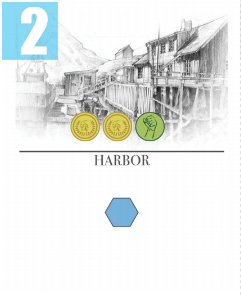
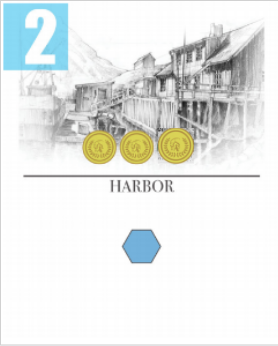
Ui (#70)

diff --git a/client/index.js b/client/index.js
@@ -36,6 +36,7 @@ var MY_MOVE = {}
 var STARTING_PLAYER = false
 var MY_RESOURCES = {'bm':0, 'l':0, 'c':0}
 var ENEMY_RESOURCES = {'bm':0, 'l':0, 'c':0}
+var VPS = {'me':0, 'enemy':0, 'me_special':false, 'enemy_special':false}
 
 // handle hex click
 // force marker placement selection first
@@ -179,12 +180,13 @@ function displayBoard() {
 	    var cell = document.createElement("div")
       cell.id = row + "_" + col
       if (BOARD[row][col].most_recent) {
-        cell.style.fontSize = '30'
+        cell.style.fontSize = '33'
       }
 
       if (BOARD[row][col].building === undefined) {
         if ((STARTING_PLAYER && BOARD[row][col].marker == 'player_one') || (!STARTING_PLAYER && BOARD[row][col].marker == 'player_two')) {
           cell.innerText = 'Mine'
+
         }
         if ((STARTING_PLAYER && BOARD[row][col].marker == 'player_two') || (!STARTING_PLAYER && BOARD[row][col].marker == 'player_one')) {
           cell.innerText = 'Enemy'
@@ -249,7 +251,7 @@ function displayShop() {
       }
 	    datum = document.createElement("th")
 	    datum.innerText = SHOP[i][attribute]
-      console.log(SHOP[i][attribute])
+      
       if (index==1) {
         datum.style.backgroundColor=getColor(SHOP[i][attribute], STARTING_PLAYER)
         if (!STARTING_PLAYER) {
@@ -317,7 +319,7 @@ function onClickShopRow(row) {
           buildingName == "Tenement" ||
           buildingName == "Refinery" ||
           buildingName == "Bazaar" ||
-          buildingName == "Housing Unit" ||
+          buildingName == "Housing Shack" ||
           buildingName == "Loan Office") {
         document.getElementById('money_form_input').style.display = "block"
         if (buildingName == "Casino" || buildingName == "Loan Office") {
@@ -353,6 +355,19 @@ function displayResources() {
   document.getElementById('resource_bm_e').innerText = "Building Materials: " + ENEMY_RESOURCES.bm
   document.getElementById('resource_l_e').innerText = "Labor: " + ENEMY_RESOURCES.l
   document.getElementById('resource_c_e').innerText = "Coin: " + ENEMY_RESOURCES.c
+}
+
+function displayVps() {
+  var me_string = "Victory Points: " + VPS.me
+  if (VPS.me_special) {
+    me_string += " + *"
+  }
+  var enemy_string = "Victory Points: " + VPS.enemy
+  if (VPS.enemy_special) {
+    enemy_string += " + *"
+  }
+  document.getElementById('vp_me').innerText = me_string
+  document.getElementById('vp_e').innerText = enemy_string
 }
 
 function clearBuildingAndExtraText(row, col) {
@@ -407,7 +422,30 @@ var SVG_HEIGHT_BUFFER = 55 // trial and error bullshit
 var SVG_LINE_WIDTH = 45
 
 // Iterate through BOARD object and draw SVG lines for buildings
-function displayBuildings() {
+function displaySvgElements() {
+  for (var row = 0; row < BOARD.length; row++) {
+    for (var col = 0; col < BOARD[row].length; col++) {
+      var xValue = 46 + 105*col
+      if (row%2 == 1) {
+        xValue += 55
+      }
+      if (document.getElementById(row + "_" + col).innerText == "Mine") {
+        if (STARTING_PLAYER) {
+          drawCircle(xValue, 55 + 91*row, '#ffffff', 0.7)
+        } else {
+          drawCircle(xValue, 55 + 91*row, '#000000', 0.4)
+        }
+      }
+      if (document.getElementById(row + "_" + col).innerText == "Enemy") { 
+        if (STARTING_PLAYER) {
+          drawCircle(xValue, 55 + 91*row, '#000000', 0.4)
+        } else {
+          drawCircle(xValue, 55 + 91*row, '#ffffff', 0.7)
+        }
+      }
+    }
+  }
+
   var lineWidth = 45
   for (var i = 0; i < BUILDINGS.length; i++) {
     var locationArray = BUILDINGS[i]['location_array']
@@ -475,6 +513,20 @@ function drawLineOnTile(tile, lineColor, is_player_one) {
   drawLine(x1, y1, x2, y2, lineColor, SVG_LINE_WIDTH*0.8)
 }
 
+function drawCircle(x, y, color, opacity) {
+
+  var newLine = document.createElementNS('http://www.w3.org/2000/svg','circle');
+  newLine.setAttribute('id','circle');
+  newLine.setAttribute('cx', x);
+  newLine.setAttribute('cy', y);
+  newLine.setAttribute('r', 25);
+  newLine.setAttribute("stroke", 'none');
+  newLine.setAttribute("fill", color);
+  newLine.setAttribute("fill-opacity", opacity);
+  
+  $("svg").append(newLine);
+}
+
 // draw SVG line
 function drawLine(x1, y1, x2, y2, lineColor, line_width) {
   var newLine = document.createElementNS('http://www.w3.org/2000/svg','line');
@@ -514,15 +566,31 @@ function ingestServerResponse(server_response) {
   if (STARTING_PLAYER) {
     MY_RESOURCES = server_response.game_state.p1_resources
     ENEMY_RESOURCES = server_response.game_state.p2_resources
+    
+    VPS.me = server_response.game_state.vps.p1
+    VPS.me_special = server_response.game_state.vps.p1_special
+    VPS.enemy = server_response.game_state.vps.p2
+    VPS.enemy_special = server_response.game_state.vps.p2_special
   } else {
     MY_RESOURCES = server_response.game_state.p2_resources
     ENEMY_RESOURCES = server_response.game_state.p1_resources
+    
+    VPS.me = server_response.game_state.vps.p2
+    VPS.me_special = server_response.game_state.vps.p2_special
+    VPS.enemy = server_response.game_state.vps.p1
+    VPS.enemy_special = server_response.game_state.vps.p1_special
   }
 
+  var svg = document.getElementById('buildings')
+  while (svg.lastChild) {
+    svg.removeChild(svg.lastChild);
+  }
   displayBoard()
-  displayBuildings()
+  displaySvgElements()
   displayShop()
   displayResources()
+  displayVps()
+
 }
 
 window.onload = () => {

diff --git a/server/startingStateGeneration.js b/server/startingStateGeneration.js
@@ -26,7 +26,7 @@
       //aquatic
       [
       {'name': 'Bridge',     'type': 'Aquatic',                      'bm': 3, 'c': 1, 'l': 0, '?': 0, 'limit': 5, 'vp': 3},
-      {'name': 'Harbor',     'type': 'Aquatic',                      'bm': 0, 'c': 2, 'l': 1, '?': 0, 'limit': 5, 'vp': 2},
+      {'name': 'Harbor',     'type': 'Aquatic',                      'bm': 0, 'c': 3, 'l': 0, '?': 0, 'limit': 5, 'vp': 2},
       {'name': 'Canal',      'type': 'Aquatic',                      'bm': 2, 'c': 2, 'l': 1, '?': 0, 'limit': 5, 'vp': 2},
       {'name': 'Ferry',      'type': 'Aquatic',                      'bm': 1, 'c': 3, 'l': 1, '?': 0, 'limit': 5, 'vp': 3},
       {'name': 'Lighthouse', 'type': 'Aquatic',                      'bm': 1, 'c': 3, 'l': 1, '?': 0, 'limit': 5, 'vp': 2},
@@ -38,8 +38,8 @@
       {'name': 'Bazaar',     'type': 'Commercial',                   'bm': 0, 'c': 0, 'l': 0, '?': 6, 'limit': 5, 'vp': 3},
       {'name': 'Refinery',   'type': 'Commercial',                   'bm': 0, 'c': 0, 'l': 0, '?': 3, 'limit': 5, 'vp': 1}, 
       {'name': 'Casino',     'type': 'Commercial',                   'bm': 0, 'c': 0, 'l': 0, '?': 4, 'limit': 5, 'vp': 0},
+      {'name': 'Loan Office','type': 'Commercial',                   'bm': 0, 'c': 0, 'l': 0, '?': 2, 'limit': 5, 'vp': -1},
       {'name': 'Watchtower', 'type': 'Commercial',                   'bm': 0, 'c': 2, 'l': 3, '?': 0, 'limit': 5, 'vp': 3},
-      {'name': 'Loan Office','type': 'Commercial',                   'bm': 0, 'c': 0, 'l': 0, '?': 2, 'limit': 5, 'vp': -1}
       ],
 
       //civic
@@ -54,23 +54,24 @@
 
       //default
       [
-      {'name': 'Housing Unit',             'type': 'Default',       'bm': 0, 'c': 0, 'l': 0, '?': 3, 'limit': 10, 'vp': 1},
+      {'name': 'Housing Shack',             'type': 'Default',       'bm': 0, 'c': 0, 'l': 0, '?': 3, 'limit': 10, 'vp': 1},
       ],
 
       //new cultural
       [
-      // {'name': 'Place Charles de Gaulle',   'type': 'NewCultural',   'bm': 3, 'c': 1, 'l': 2, '?': 0, 'limit': 1, 'vp': 8},
-      // {'name': 'Parc de Buttes Chaumont',   'type': 'NewCultural',   'bm': 1, 'c': 2, 'l': 3, '?': 0, 'limit': 1, 'vp': 7},
-      // {'name': 'Rue de Rivoli',             'type': 'NewCultural',   'bm': 3, 'c': 2, 'l': 1, '?': 0, 'limit': 1, 'vp': 6},
-      {'name': 'The Embassy',               'type': 'NewCultural',   'bm': 2, 'c': 3, 'l': 2, '?': 0, 'limit': 1, 'vp': 0},
+      {'name': 'Place Charles de Gaulle',   'type': 'NewCultural',   'bm': 3, 'c': 1, 'l': 2, '?': 0, 'limit': 1, 'vp': 8},
+      {'name': 'Parc de Buttes Chaumont',   'type': 'NewCultural',   'bm': 1, 'c': 2, 'l': 3, '?': 0, 'limit': 1, 'vp': 7},
+      {'name': 'Rue de Rivoli',             'type': 'NewCultural',   'bm': 3, 'c': 2, 'l': 1, '?': 0, 'limit': 1, 'vp': 6},
+      {'name': 'The Embassy',               'type': 'NewCultural',   'bm': 1, 'c': 2, 'l': 2, '?': 0, 'limit': 1, 'vp': 0},
       {'name': 'Tour Eiffel',               'type': 'NewCultural',   'bm': 1, 'c': 1, 'l': 1, '?': 0, 'limit': 1, 'vp': 6},
-      {'name': 'Bois de Vincennes',         'type': 'NewCultural',   'bm': 2, 'c': 1, 'l': 2, '?': 0, 'limit': 1, 'vp': 0},
-      {'name': 'Waterworks',                'type': 'NewCultural',   'bm': 2, 'c': 3, 'l': 2, '?': 0, 'limit': 1, 'vp': 0},
+      {'name': 'Bois de Vincennes',         'type': 'NewCultural',   'bm': 2, 'c': 1, 'l': 3, '?': 0, 'limit': 1, 'vp': 0},
       {'name': 'Musee du Louvre',           'type': 'NewCultural',   'bm': 2, 'c': 3, 'l': 1, '?': 0, 'limit': 1, 'vp': 0},
       {'name': 'Guild Hall',                'type': 'NewCultural',   'bm': 2, 'c': 1, 'l': 2, '?': 0, 'limit': 1, 'vp': 0},
       {'name': 'Musee du Orsay',            'type': 'NewCultural',   'bm': 1, 'c': 2, 'l': 2, '?': 0, 'limit': 1, 'vp': 2},
-      // {'name': 'Le Havre',                  'type': 'NewCultural',   'bm': 0, 'c': 3, 'l': 3, '?': 0, 'limit': 1, 'vp': 0},
       {'name': 'The Grand Canal',           'type': 'NewCultural',   'bm': 2, 'c': 3, 'l': 2, '?': 0, 'limit': 1, 'vp': 0},
+      
+      {'name': 'Le Havre',                  'type': 'NewCultural',   'bm': 0, 'c': 3, 'l': 3, '?': 0, 'limit': 1, 'vp': 0},
+      {'name': 'Waterworks',                'type': 'NewCultural',   'bm': 2, 'c': 3, 'l': 2, '?': 0, 'limit': 1, 'vp': 0},
       ]
     ]
 

diff --git a/app.js b/app.js
@@ -24,7 +24,8 @@ var GAME_STATE = {
   'buildings': [],
   'shop': startingStateGeneration.generateShop(5),
   'p1_resources': startState[1],
-  'p2_resources': startState[2]
+  'p2_resources': startState[2],
+  'vps': {'p1':0, 'p2':0, 'p1_special':false, 'p2_special':false}
 }
 
 // Express to serve correct client side code
@@ -75,6 +76,7 @@ io.on('connection', function(socket) {
     
     if (moveProcessor.validateMove(socket.id, PLAYER_IDS[ACTIVE_PLAYER_INDEX].socket_id)) {
       GAME_STATE = moveProcessor.processMove(client_object)
+      GAME_STATE.vps = calcVPS()
       emitMoveToPlayers(socket)
     }
 
@@ -160,6 +162,34 @@ function emitMoveToPlayers(socket) {
   })
   socket.emit('not_your_turn')
   ACTIVE_PLAYER_INDEX = +(!ACTIVE_PLAYER_INDEX)
+}
+
+function calcVPS() {
+  p1_vps = 0
+  p2_vps = 0
+  p1_special = false
+  p2_special = false
+  for (var i=0; i<GAME_STATE.buildings.length; i++) {
+    for (var j=0; j<GAME_STATE.shop.length; j++) {
+      if (GAME_STATE.shop[j].name == GAME_STATE.buildings[i].name) {
+        if (GAME_STATE.buildings[i].player == 'player_one') {
+          if (GAME_STATE.shop[j].vp != "*") {
+            p1_vps += GAME_STATE.shop[j].vp
+          } else {
+            p1_special = true
+          }
+        }
+        if (GAME_STATE.buildings[i].player == 'player_two') {
+          if (GAME_STATE.shop[j].vp != "*") {
+            p2_vps += GAME_STATE.shop[j].vp
+          } else {
+            p2_special = true
+          }
+        }
+      }
+    }
+  }
+  return {'p1':p1_vps, 'p2':p2_vps, 'p1_special':p1_special, 'p2_special':p2_special}
 }
 
 function gameEnded() {

diff --git a/client/index.html b/client/index.html
@@ -12,12 +12,16 @@
 				  <div id='resource_bm' class='red_resource'>Building Materials: 0</div>
 				  <div id='resource_c' class='yellow_resource'>Coin: 0</div>
 				  <div id='resource_l' class='green_resource'>Labor: 0</div>
+				  <br>
+				  <div id='vp_me' class='vp_counter'>Victory Points: 0</div>
 				</div>
 				<div id='enemy_resources' class='resource_box_enemy'>
 				  <h2>Enemy Resources</h2>
 				  <div id='resource_bm_e' class='red_resource'>Building Materials: 0</div>
 				  <div id='resource_c_e' class='yellow_resource'>Coin: 0</div>
 				  <div id='resource_l_e' class='green_resource'>Labor: 0</div>
+				  <br>
+				  <div id='vp_e' class='vp_counter'>Victory Points: 0</div>
 				</div>
 				<div id='button_div'>
 				  <input type="submit" id='submit_btn' value="Submit Move">

diff --git a/client/index.css b/client/index.css
@@ -139,6 +139,21 @@ p {
     font-size: 20px;
 }
 
+#my_resources {
+    width: 160px;
+    padding-right: 0px;
+}
+#enemy_resources {
+    width: 160px;
+    padding-right: 0px;
+}
+#button_div {
+    position: absolute;
+    left: 175px;
+    top: 220px;
+}
+
+
 #casino_steal_input {
     left: 250px;
     top: 100px;
@@ -344,7 +359,9 @@ svg {
 }
 
 .color-blue {
+    background: radial-gradient(circle at 100% 50%, transparent 20%, rgba(255,255,255,.3) 21%, rgba(255,255,255,.3) 34%, transparent 35%, transparent), radial-gradient(circle at 0% 50%, transparent 20%, rgba(255,255,255,.3) 21%, rgba(255,255,255,.3) 34%, transparent 35%, transparent) 0 -50px;
     background-color: var(--water_color);
+    background-size: 75px 100px;
 }
 .color-blue::after,
 .color-blue::before {

diff --git a/client/buildingValidation.js b/client/buildingValidation.js
@@ -791,7 +791,7 @@ var buildingData = {
   'Monument': {'validation_function': monument, 'length': 2},
 
   //default
-  'Housing Unit': {'validation_function': housingUnit, 'length': 2},
+  'Housing Shack': {'validation_function': housingUnit, 'length': 2},
 
   //new cultural
   'Place Charles de Gaulle': {'validation_function': placeCharlesDeGaulle, 'length': 7}, 
